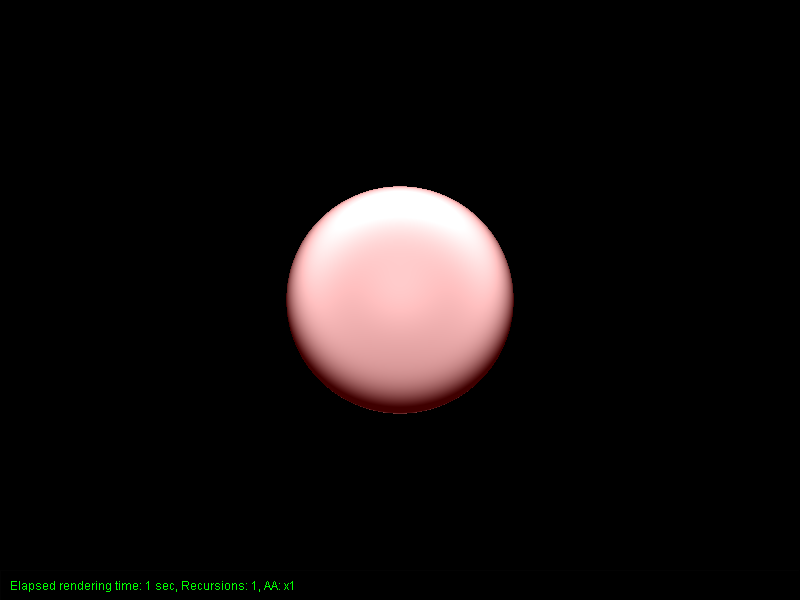
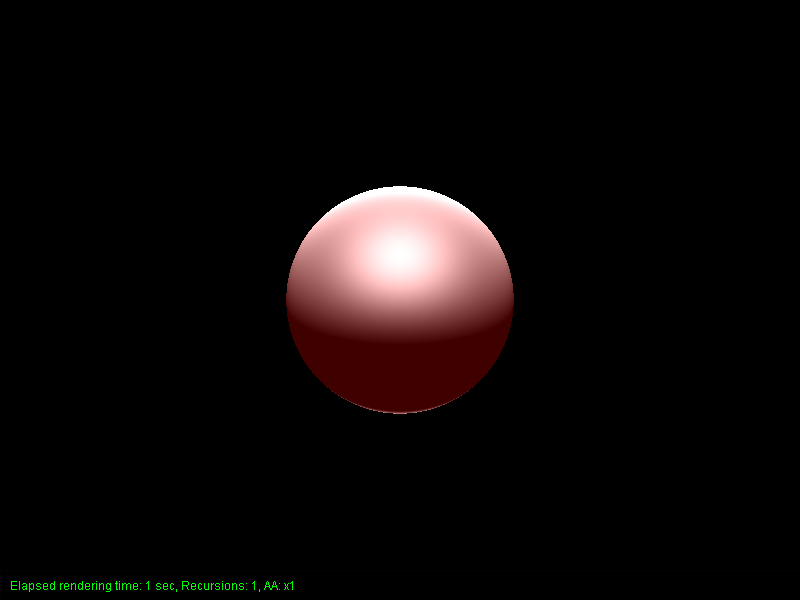
wip

Changed region(s): [[0.3438, 0.3, 0.6562, 0.69]]

diff --git a/VCG_Raytracer/src/Main.java b/VCG_Raytracer/src/Main.java
@@ -118,7 +118,7 @@ public class Main {
     }
 
     private static void setupLights(Scene renderScene) {
-        renderScene.createPointLight(new Vec3 (0,1,0), new RgbColor(RgbColor.WHITE.colors));
+        renderScene.createPointLight(new Vec3 (0,5,-1), new RgbColor(RgbColor.WHITE.colors));
         //renderScene.createPointLight(new Vec3 (0,5,0), new RgbColor(RgbColor.GREEN.colors));
         //renderScene.createPointLight(new Vec3 (0,0,5), new RgbColor(RgbColor.BLUE.colors));
     }
